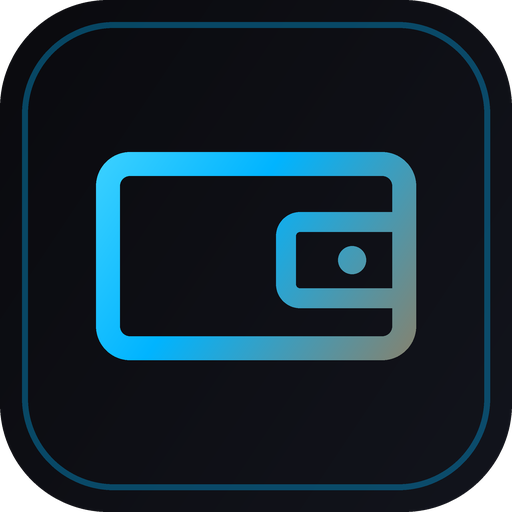
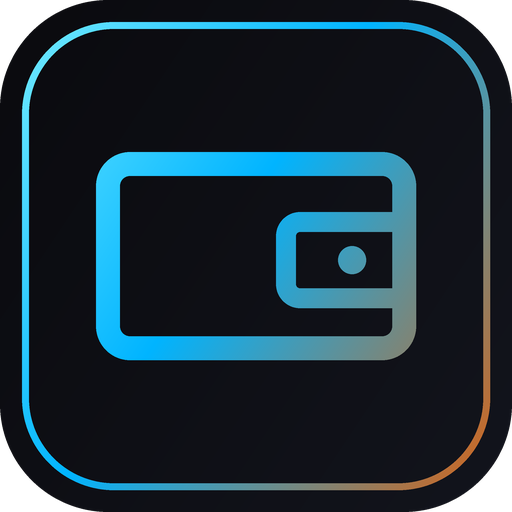
Mbongo: Mail-style splash (tile + ring + name), framed maskable, assetlinks
- Splash now matches Ayeba Mail's: full rounded tile + luminous gradient
  ring + wallet glyph + 'Ayeba Mbongo' caption, at every density
- Maskable icon keeps the framed tile look (store-style) instead of a
  bare glyph — matches the Play Store icon
- assetlinks.json now declares app.ayeba.mbongo with its real keystore
  SHA-256 fingerprint — removes the Chrome address bar (verified TWA)

Generated with [Devin](https://devin.ai)

diff --git a/src/app/.well-known/assetlinks.json/route.ts b/src/app/.well-known/assetlinks.json/route.ts
@@ -10,6 +10,19 @@ export const dynamic = "force-dynamic";
  * configurés (fingerprint du keystore de signature réel — jamais inventé).
  * Sinon [] : le lien TWA n'est pas revendiqué, aucune app ne peut l'usurper.
  */
+// Fingerprint SHA-256 du keystore de signature Mbongo (mobile/android-twa).
+// C'est une clé publique de vérification — pas un secret.
+const MBONGO_STATEMENT = {
+  relation: ["delegate_permission/common.handle_all_urls"],
+  target: {
+    namespace: "android_app",
+    package_name: "app.ayeba.mbongo",
+    sha256_cert_fingerprints: [
+      "82:FF:A8:58:EC:CC:83:9D:48:01:26:58:FC:6F:21:3B:4D:1C:C0:C5:8A:7D:03:4F:26:48:6A:01:07:F1:7F:63",
+    ],
+  },
+};
+
 export async function GET() {
   const pkg = process.env.ANDROID_PACKAGE_NAME?.trim();
   const fingerprint = process.env.ANDROID_SHA256_FINGERPRINT?.trim();
@@ -26,6 +39,7 @@ export async function GET() {
           },
         ]
       : [];
+  statements.push(MBONGO_STATEMENT);
   return NextResponse.json(statements, {
     headers: { "Cache-Control": "public, max-age=3600" },
   });
